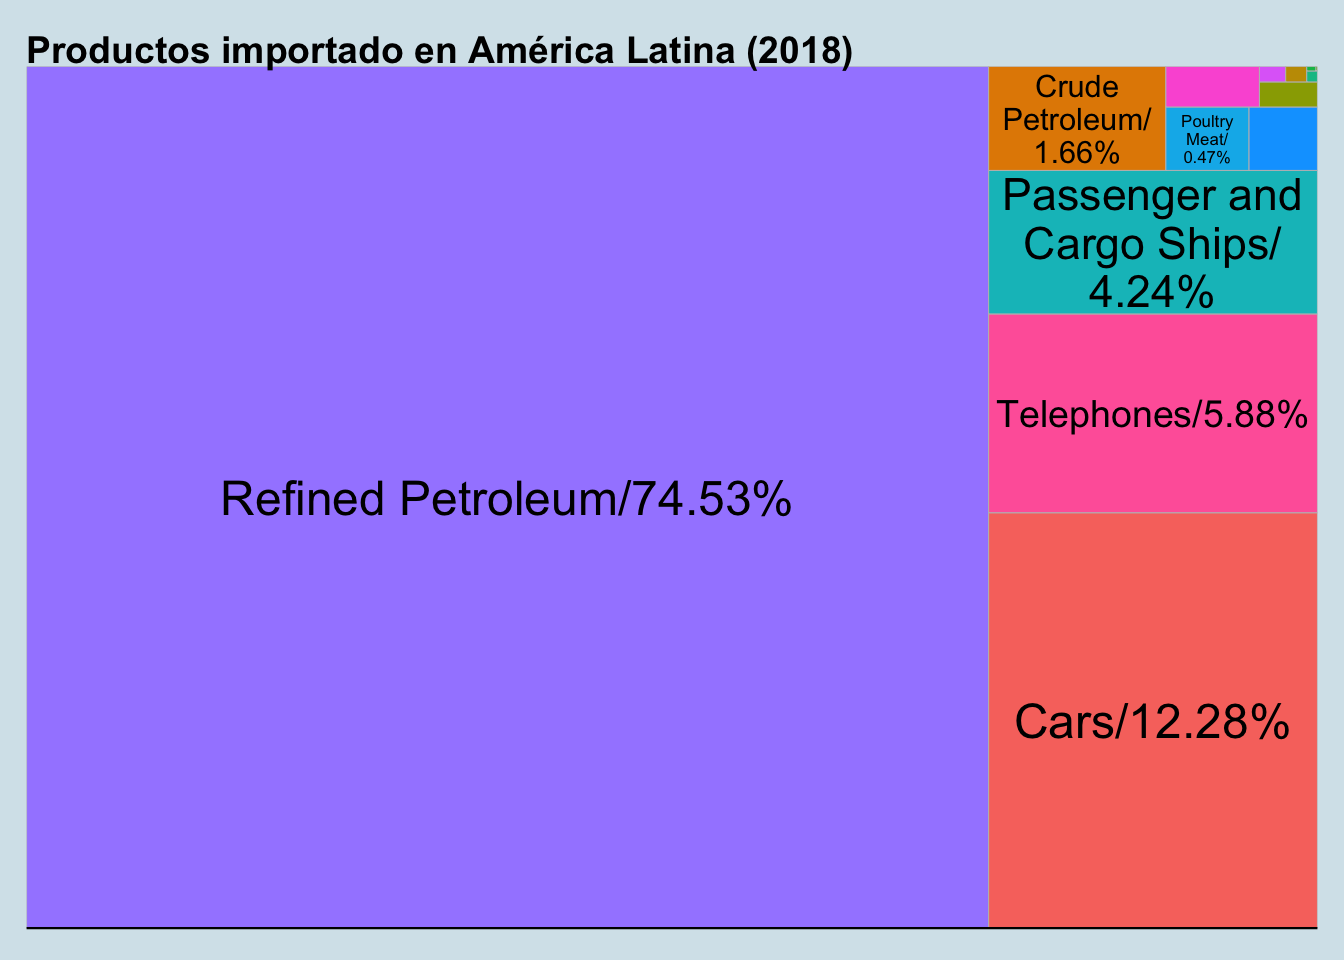
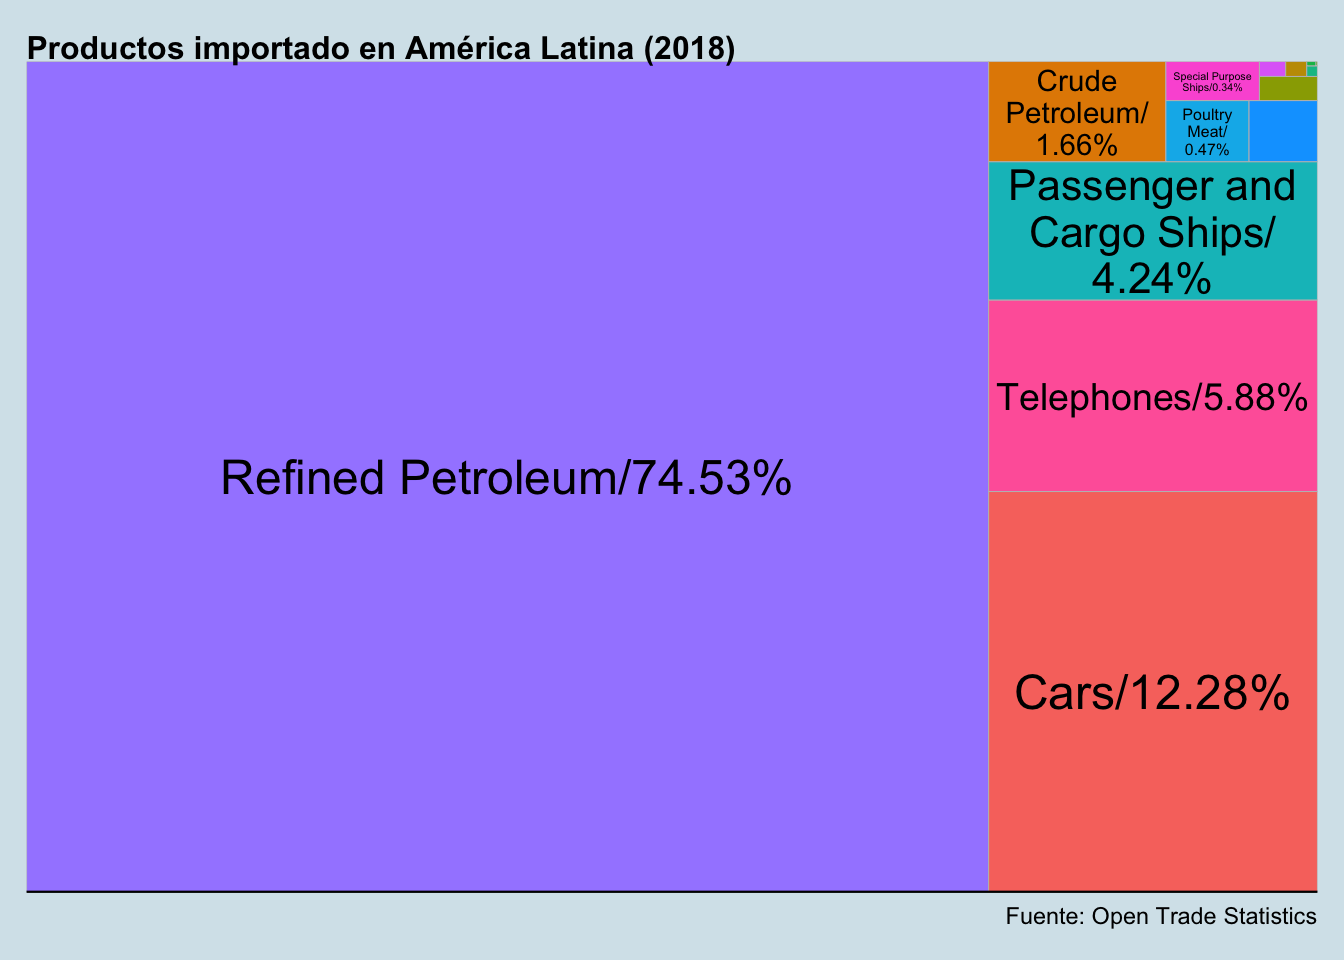
Updating to fix errors

diff --git a/content/post/2021-01-09-export/index.html b/content/post/2021-01-09-export/index.html
@@ -149,7 +149,7 @@ latam_graph1 &lt;- ggplot(latam_reduced, aes(
   theme_economist() +
   theme(
     plot.title = element_text(size = 14),
-    axis.text.x = element_text(size = 9),
+    axis.text.x = element_text(size = 7),
     axis.text.y = element_text(size=9,
                                hjust = 0),
     legend.text = element_text(size = 8),
@@ -162,7 +162,7 @@ latam_graph1</code></pre>
 <pre class="r"><code>comercio_caribbean &lt;- productos_latam_export %&gt;%
   filter(reporter_fullname_english != &quot;Argentina&quot;,
          reporter_fullname_english != &quot;Bolivia&quot;,
-         reporter_fullname_english != &quot;Brasil&quot;,
+         reporter_fullname_english != &quot;Brazil&quot;,
          reporter_fullname_english != &quot;Chile&quot;,
          reporter_fullname_english != &quot;Colombia&quot;,
          reporter_fullname_english != &quot;Ecuador&quot;,
@@ -170,7 +170,8 @@ latam_graph1</code></pre>
          reporter_fullname_english != &quot;Paraguay&quot;,
          reporter_fullname_english != &quot;Peru&quot;,
          reporter_fullname_english != &quot;Uruguay&quot;,
-         reporter_fullname_english != &quot;Venezuela&quot;) %&gt;%
+         reporter_fullname_english != &quot;Venezuela&quot;,
+         reporter_fullname_english != &quot;Falkland Isds (Malvinas)&quot;) %&gt;%
   group_by(reporter_fullname_english, 
            product_shortname_english,
            export_value_usd) %&gt;%
@@ -192,7 +193,7 @@ caribbean_graph &lt;- ggplot(comercio_caribbean, aes(
   theme(
     plot.title = element_text(size = 14),
     axis.text.x = element_text(size = 9),
-    axis.text.y = element_text(size=9,
+    axis.text.y = element_text(size=7,
                                hjust = 0),
     legend.text = element_text(size = 8),
     legend.title = element_blank(),

diff --git a/content/post/2020-12-07-importacion/index.html b/content/post/2020-12-07-importacion/index.html
@@ -113,9 +113,10 @@ productos_latam_import &lt;- merge(x = comercio_latam,
                     place = &quot;centre&quot;,
                     grow = F,
                     reflow = T) +
-  labs(title = &quot;Productos importado en América Latina (2018)&quot;) +
+  labs(title = &quot;Productos importado en América Latina (2018)&quot;,
+       caption = &quot;Fuente: Open Trade Statistics&quot;) +
   theme_economist() +
-  theme(plot.title = element_text(size = 14),
+  theme(plot.title = element_text(size = 12),
     legend.position = &quot;none&quot;)
 
 producto_2018</code></pre>
